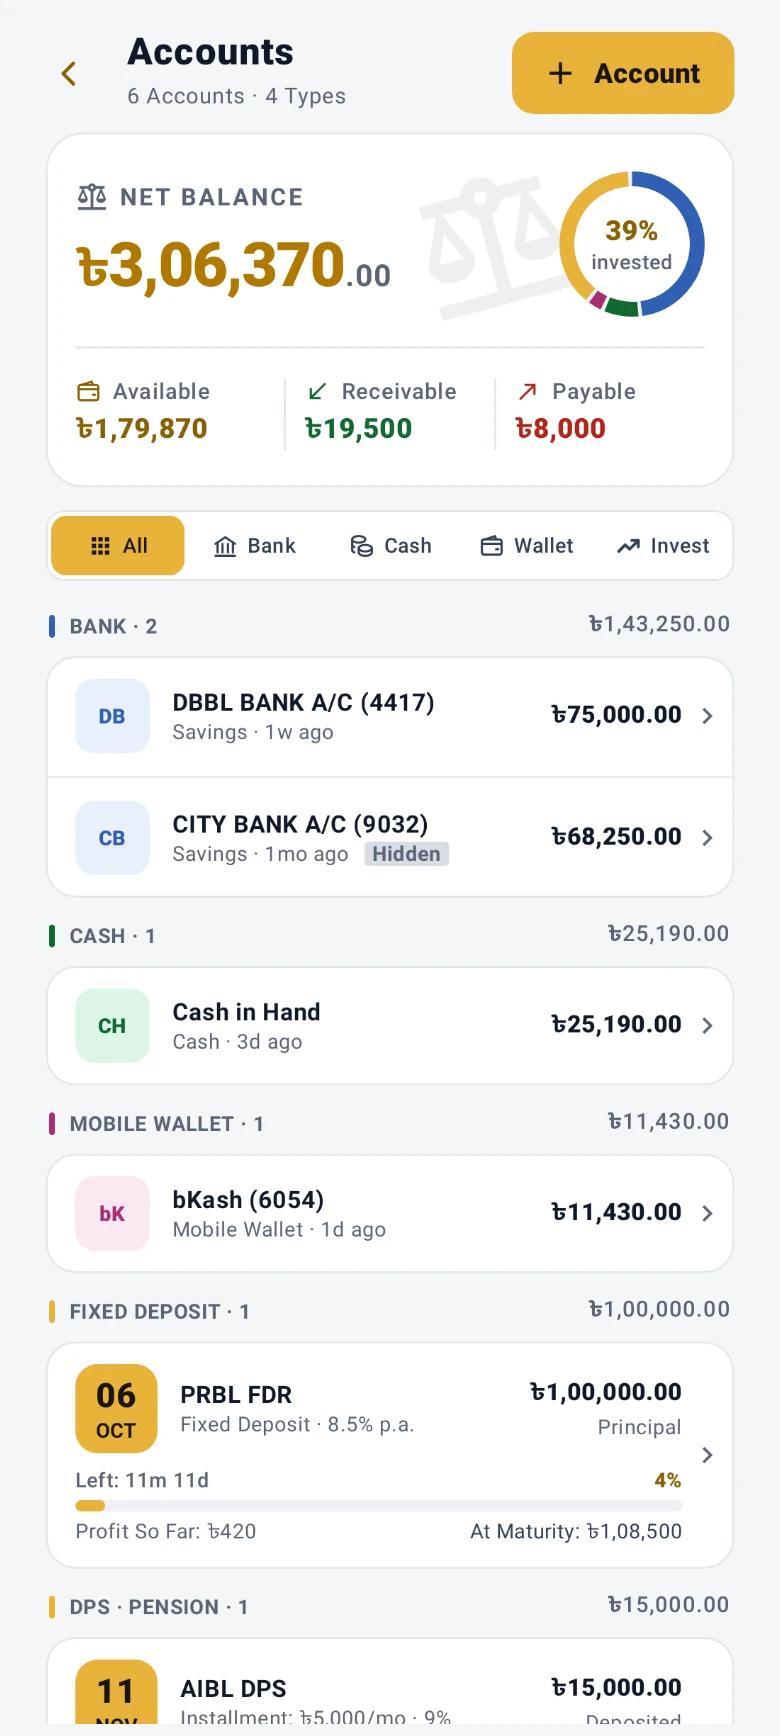
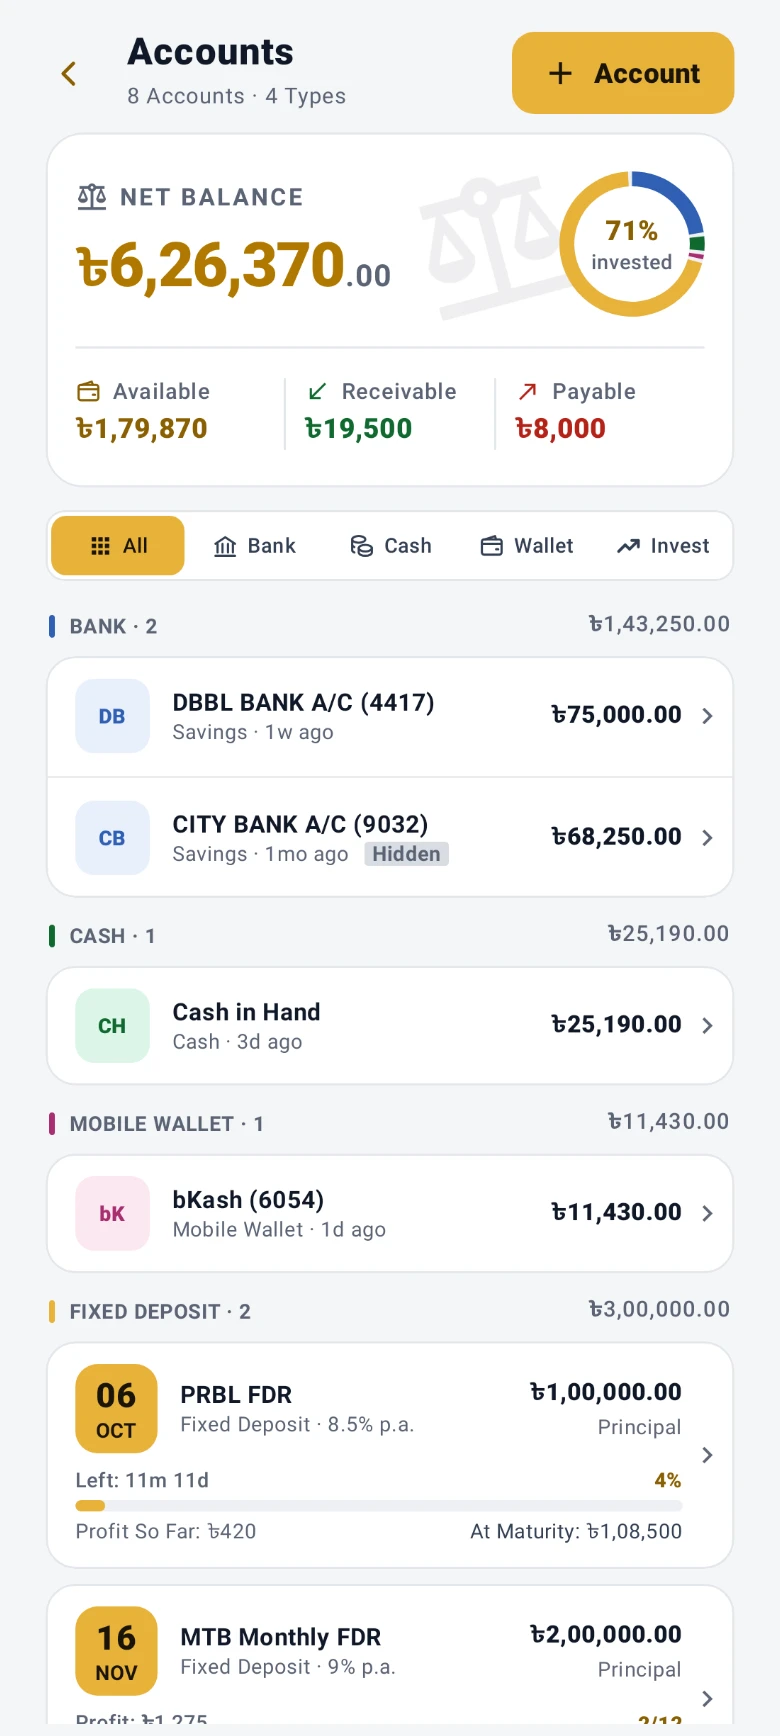
Website 2.25.9: four kinds of deposit in the Invest picture
A monthly-profit FDR and a DPS paying its pension join the sample ledger,
so the picture beside "Deposits that earn" fills its screen. The pictures
that show the ledger and the share picture are rendered again from the
2.2.5 release. 2.25.8's commit in the changelog.

diff --git a/_tools/gallery-changes.js b/_tools/gallery-changes.js
@@ -37,6 +37,14 @@ edit('GalleryTest.kt', [
    'val fdr = repository.insertAccountReturningId(BankAccount(accountName = "PRBL FDR", accountType = "FDR", accountNumberSuffix = "", balance = 0.0,'],
   ['repository.insertAccount(BankAccount(accountName = "AIBL DPS", accountType = "DPS", accountNumberSuffix = "", balance = 15000.0,',
    'val dps = repository.insertAccountReturningId(BankAccount(accountName = "AIBL DPS", accountType = "DPS", accountNumberSuffix = "", balance = 0.0,'],
+  // Website render only (site 2.25.9): the other kinds of deposit, a monthly-profit FDR and a DPS
+  // paying its pension, in the same ledger as every scene, so Invest fills the screen.
+  [`    val accounts = repository.accountsOnce()
+    fun acc(id: Int) = accounts.first { it.id == id }`,
+`    val mtb = repository.insertAccountReturningId(BankAccount(accountName = w("MTB Monthly FDR", "MTB মাসিক FDR"), accountType = "FDR", accountNumberSuffix = "", balance = 0.0, accentColorHex = "#E8B23A", holderName = "Raahat", linkedAccountId = dbbl, tenureMonths = 12, interestRate = 9.0, startDate = now - 70 * day, maturityDate = now + 295 * day, payoutMode = "MONTHLY", profitCollectedCount = 2, preLedgerMonths = 0, schemeStatus = "ACTIVE"))
+    val sibl = repository.insertAccountReturningId(BankAccount(accountName = "SIBL DPS", accountType = "DPS", accountNumberSuffix = "", balance = 0.0, accentColorHex = "#E8B23A", holderName = "Raahat", linkedAccountId = dbbl, tenureMonths = 36, monthlyInstallmentPaisa = takaToPaisa(3000.0), interestRate = 8.0, startDate = now - 1125 * day, maturityDate = now - 30 * day, pensionMonthlyPaisa = takaToPaisa(2500.0), pensionMonths = 60, pensionPaidCount = 0, pensionStartDate = now - 5 * day, schemeStatus = "ACTIVE"))
+    val accounts = repository.accountsOnce()
+    fun acc(id: Int) = accounts.first { it.id == id }`],
   [`    val j = repository.journal
     j.postIncome("Salary", "", "Salary", now - 12 * day`,
 `    val j = repository.journal
@@ -45,6 +53,8 @@ edit('GalleryTest.kt', [
     j.postOpeningBalance(acc(city), takaToPaisa(68250.0), now - 40 * day)
     j.postOpeningBalance(acc(fdr), takaToPaisa(100000.0), now - 18 * day)
     j.postOpeningBalance(acc(dps), takaToPaisa(15000.0), now - 75 * day)
+    j.postOpeningBalance(acc(mtb), takaToPaisa(200000.0), now - 70 * day)
+    j.postOpeningBalance(acc(sibl), takaToPaisa(120000.0), now - 95 * day)
     j.postIncome("Salary", "", "Salary", now - 12 * day`],
   ['"October rent"', 'w("October rent", "অক্টোবরের ভাড়া")'],
   ['"Lunch"', 'w("Lunch", "দুপুরের খাবার")'],

diff --git a/features.html b/features.html
@@ -324,7 +324,7 @@
       <p data-s="footerNote">Built for keeping one household’s books. No trackers on this page.</p>
     </div>
     <p class="foot-links">
-      <span class="foot-ver" data-site-version>Website v2.25.8</span>
+      <span class="foot-ver" data-site-version>Website v2.25.9</span>
       <a href="privacy.html" data-s="navPrivacy">Privacy</a>
       <a href="install.html" data-s="navInstall">How to install</a>
     </p>

diff --git a/index.html b/index.html
@@ -355,7 +355,7 @@
       <p data-s="footerNote">Built for keeping one household’s books. No trackers on this page.</p>
     </div>
     <p class="foot-links">
-      <span class="foot-ver" data-site-version>Website v2.25.8</span>
+      <span class="foot-ver" data-site-version>Website v2.25.9</span>
       <a href="privacy.html" data-s="navPrivacy">Privacy</a>
       <a href="install.html" data-s="navInstall">How to install</a>
     </p>

diff --git a/install.html b/install.html
@@ -234,7 +234,7 @@
       <p data-s="footerNote">Built for keeping one household’s books. No trackers on this page.</p>
     </div>
     <p class="foot-links">
-      <span class="foot-ver" data-site-version>Website v2.25.8</span>
+      <span class="foot-ver" data-site-version>Website v2.25.9</span>
       <a href="privacy.html" data-s="navPrivacy">Privacy</a>
       <a href="install.html" data-s="navInstall">How to install</a>
     </p>

diff --git a/privacy.html b/privacy.html
@@ -219,7 +219,7 @@
       <p data-s="footerNote">Built for keeping one household’s books. No trackers on this page.</p>
     </div>
     <p class="foot-links">
-      <span class="foot-ver" data-site-version>Website v2.25.8</span>
+      <span class="foot-ver" data-site-version>Website v2.25.9</span>
       <a href="privacy.html" data-s="navPrivacy">Privacy</a>
       <a href="install.html" data-s="navInstall">How to install</a>
     </p>

diff --git a/assets/site.js b/assets/site.js
@@ -30,7 +30,7 @@ document.documentElement.classList.add('js');
  * number for a fix to what is there, the middle one for a new page, section or feature.
  * The app's version is a separate thing and comes from the releases API.
  */
-const SITE_VERSION = '2.25.8';
+const SITE_VERSION = '2.25.9';
 
 const LANGS = { en: 0, bn: 1 };
 // The language actually on the page. Where storage is blocked the saved choice cannot

diff --git a/CHANGELOG.md b/CHANGELOG.md
@@ -12,7 +12,8 @@ Counted back over the history when the number was introduced; repository houseke
 
 | Version | Date | Commit | What |
 |---|---|---|---|
-| 2.25.8 | 2026-11-18 | — | The eight cards of the features page's 01 placed by length, the shorter four above and the longer four below, so that cards of like length share a row and, two to a row on a narrower screen, a pair. The longest said in fewer words with every fact kept: exporting in both languages, the accounts card in English, the five kinds of entry and sharing an account's details in Bangla. And 2.25.7's commit in the changelog |
+| 2.25.9 | 2026-11-19 | — | The picture beside "Deposits that earn" fills its screen with four kinds of deposit: to the FDR that pays at maturity and the DPS taking instalments are added an FDR paying its profit monthly and a DPS paying its pension. They join the one sample ledger, so every picture that shows the ledger is rendered again from the 2.2.5 release and the share picture with them; Home's net worth reads ৳6,26,370. And 2.25.8's commit in the changelog |
+| 2.25.8 | 2026-11-18 | f0163f7 | The eight cards of the features page's 01 placed by length, the shorter four above and the longer four below, so that cards of like length share a row and, two to a row on a narrower screen, a pair. The longest said in fewer words with every fact kept: exporting in both languages, the accounts card in English, the five kinds of entry and sharing an account's details in Bangla. And 2.25.7's commit in the changelog |
 | 2.25.7 | 2026-11-18 | 1e272f6 | Language read once more. In Bangla the menu and the home page's button say ইনস্টলের নিয়ম, the Play Store heading says where the app is to be had, an entry dated ahead is not counted in the balance rather than not added to it, and a dash has a space on each side throughout. In English, eight small corrections, the Play Store heading among them. The Reverse card shorter: that an account below ৳0 is named on the Accounts page moves to the card on checks before saving or deleting, so the second row of the features page's 01 comes out nearer level. And 2.25.6's commit in the changelog |
 | 2.25.6 | 2026-11-18 | e854549 | What the site says, held to what app 2.2.5 does: four permissions of the app's own and seven routine ones from its libraries; Reverse keeps both entries and Edit keeps no earlier version; which actions take a fingerprint and which the PIN alone; when a balance below ৳0 is asked and when it is stopped; the ledger leaves the phone only when you export or back it up; exports follow your filters and a PDF's table lists the newest 5,000; a restore brings back the profile rather than settings; maturity is out of the bell's list; the backup library named; what Android's backup carries; sharing needs a saved number; the text size's limit. And 2.25.5's commit in the changelog |
 | 2.25.5 | 2026-11-18 | bb0c35f | On the light theme the icons sit on the app's own tile colour (#FDF0CC) everywhere, the outlined ones on the home page included, words on the gold chips take the app's deeper ink, and the tick at the end of the install guide is white on its green (3.23 to 6.08). Every app picture has more room at the top (24px, from 12), and the share picture with them; the PIN pictures lose the pale band under the keypad. Paragraphs that run to several lines are justified where the column is wide enough; not on a phone, nor in the four cards to a row of the features page's 01. And 2.25.4's commit in the changelog |

diff --git a/README.md b/README.md
@@ -55,7 +55,7 @@ read — the ink is a step deeper for exactly that reason. The app hit this same
 
 ## The website's version
 
-Every footer says "Website v2.25.8". `CHANGELOG.md` lists every version and what it was. The number lives once, as SITE_VERSION at the top of
+Every footer says "Website v2.25.9". `CHANGELOG.md` lists every version and what it was. The number lives once, as SITE_VERSION at the top of
 `assets/site.js`, and is raised on every publish: the last part for a fix to what is
 there, the middle part for a new page, section or feature. It is the site's own version and
 has nothing to do with the app's.
